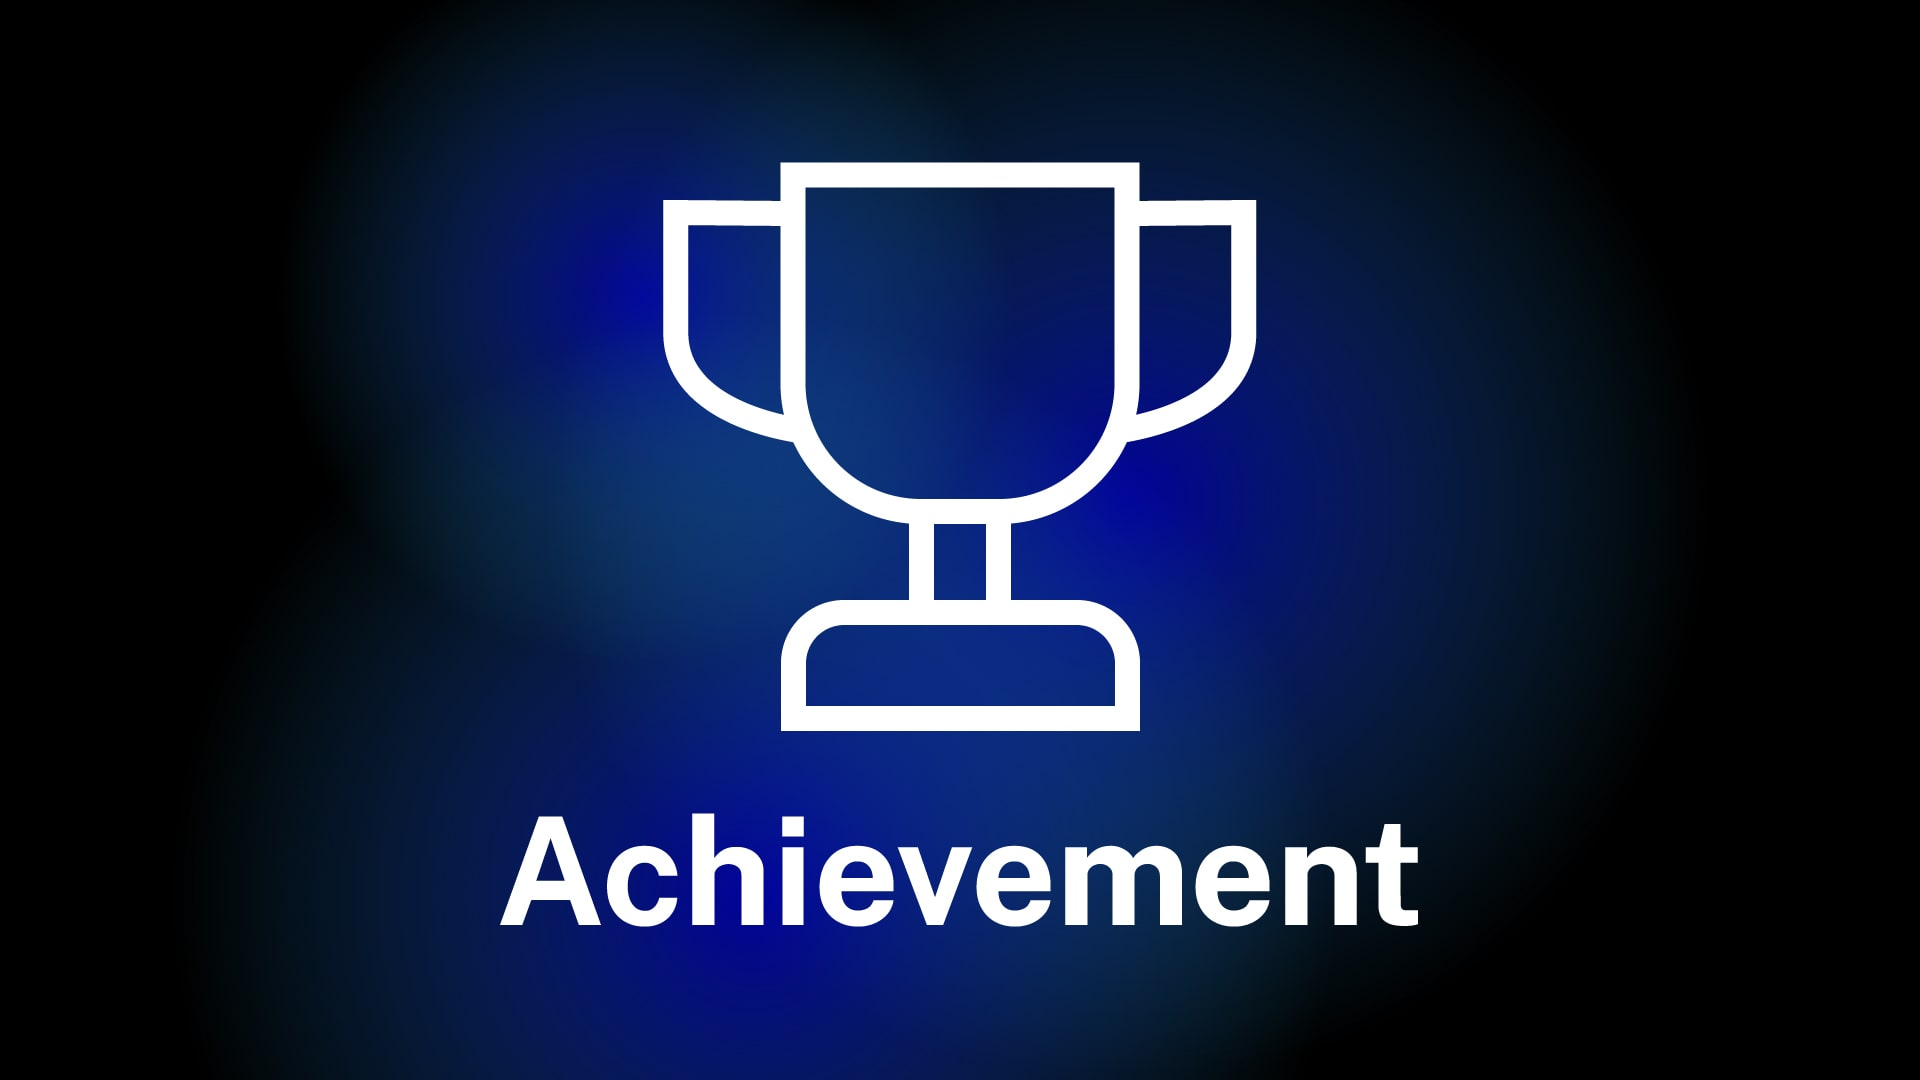
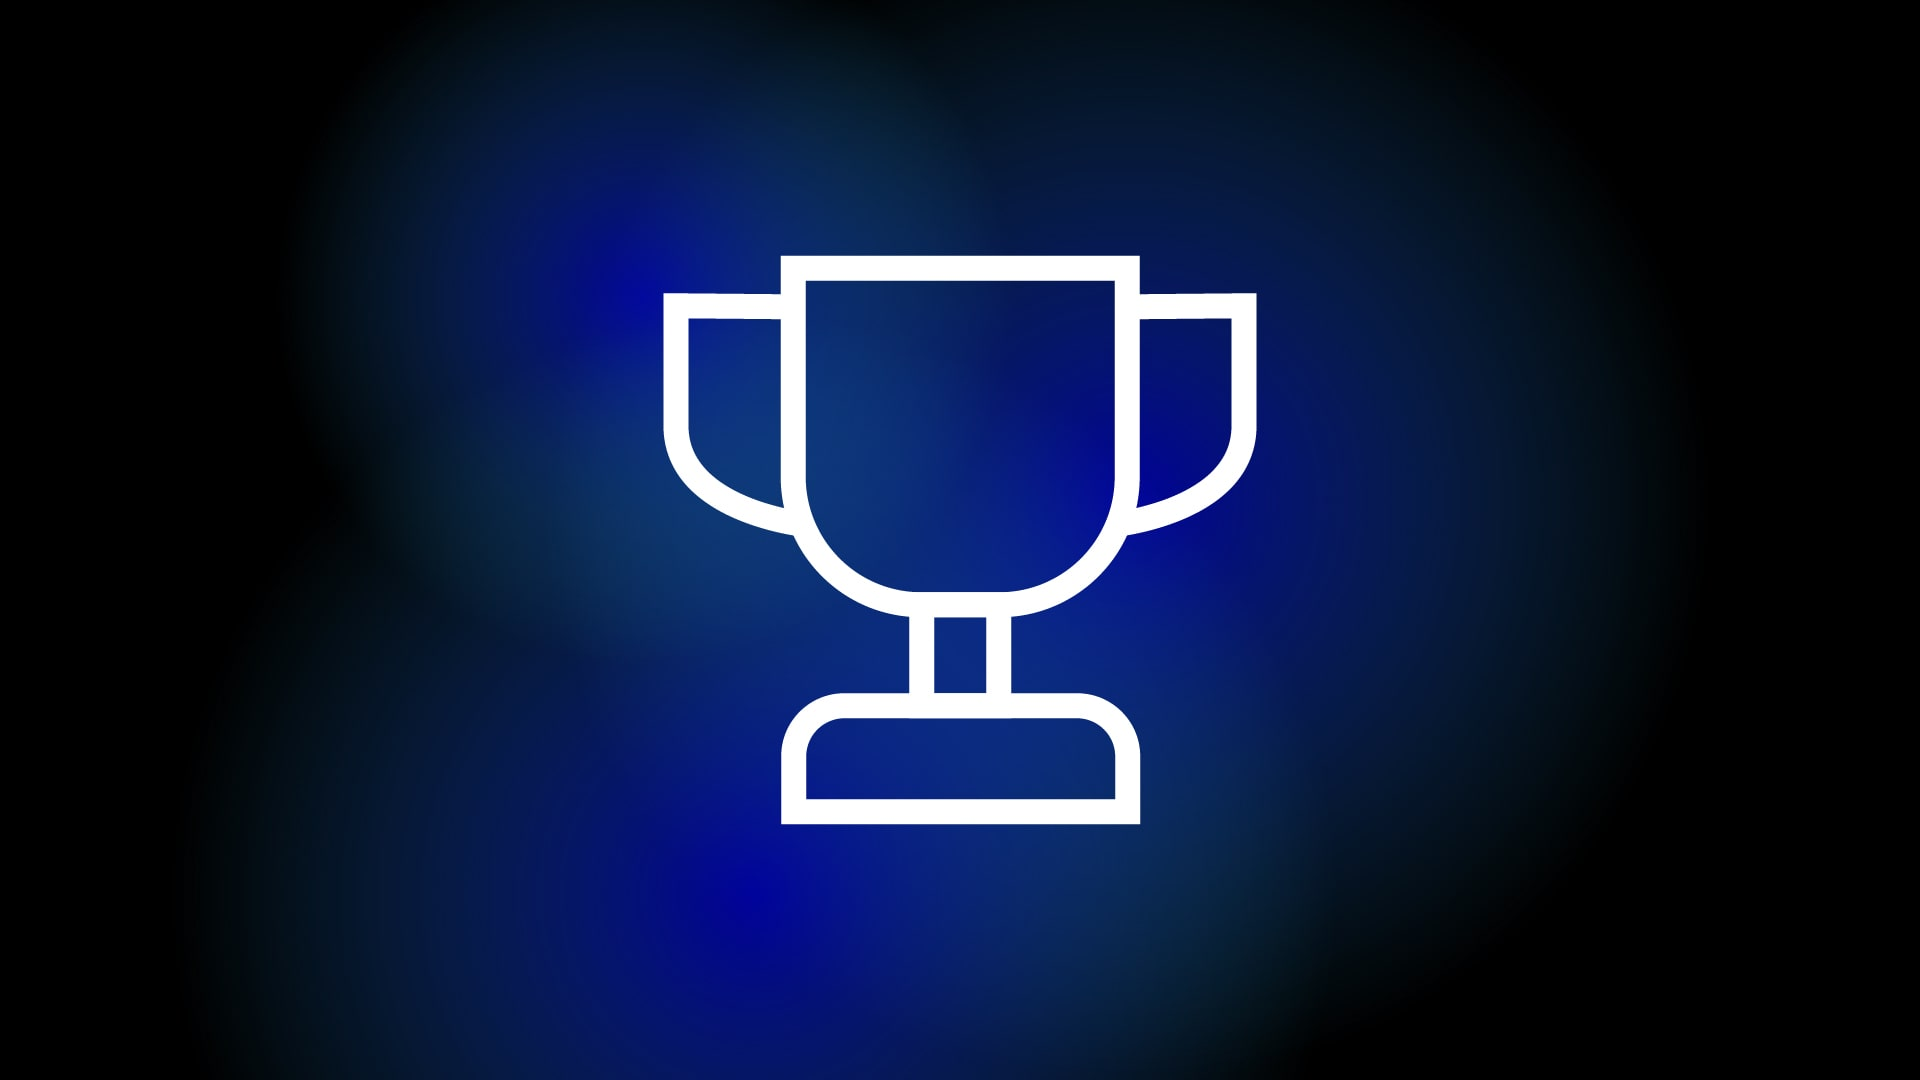
Edited default pictures, small adjustments

Changed region(s): [[0.25, 0.1528, 0.75, 0.8556]]

diff --git a/src/main/resources/templates/newsroom/NewsroomHome.html b/src/main/resources/templates/newsroom/NewsroomHome.html
@@ -152,7 +152,7 @@
                     <div class="col-sm-4 grid-margin">
                         <div class="position-relative">
                             <div class="">
-                                <img th:src="${post.getImagePath() != null}? *{post.getImagePath()} : '/images/default-posts/no-image.png'" th:alt="|${post.getTitle()}|" class="img-fluid newsroom-slide">
+                                <img th:src="${post.getImagePath() != null}? *{post.getImagePath()} : '/images/default-posts/no-image.jpg'" th:alt="|${post.getTitle()}|" class="img-fluid newsroom-slide">
                             </div>
                             <div class="badge-positioned">
                                 <span class="badge" th:classappend="${post.getCategory() == 'ACHIEVEMENT'} ? 'bg-primary' : (${post.getCategory() == 'NEWS'} ? 'bg-secondary' : (${post.getCategory() == 'JOURNAL'} ? 'bg-info' : (${post.getCategory() == 'EMERGENCY'} ? 'bg-danger' : (${post.getCategory() == 'ARTICLE'} ? 'bg-warning' : (${post.getCategory() == 'DISCOVERY'} ? 'bg-success' : (${post.getCategory() == 'UPDATE'} ? 'bg-dark' : (${post.getCategory() == 'EVENT'} ? 'bg-success' : 'bg-dark')))))))" th:text="${post.getCategory()}"></span>

diff --git a/src/main/java/com/costi/csw9/Controller/FrontEndController.java b/src/main/java/com/costi/csw9/Controller/FrontEndController.java
@@ -724,7 +724,7 @@ public class FrontEndController {
             Post blank = new Post("No Posts", "No posts were found in database", PostCategory.NEWS.name(), "");
             blank.setLastEdited(LocalDateTime.MIN);
             blank.setId(-1L);
-            blank.setImagePath("/images/default-posts/no-image.png");
+            blank.setImagePath("/images/default-posts/no-image.jpg");
             model.addAttribute("slide1", blank);
             model.addAttribute("slide2", blank);
             model.addAttribute("slide3", blank);
